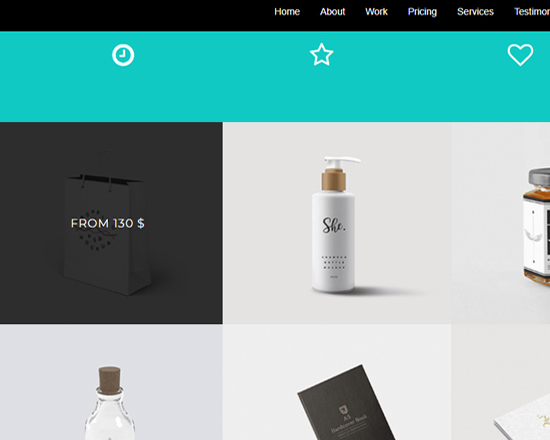
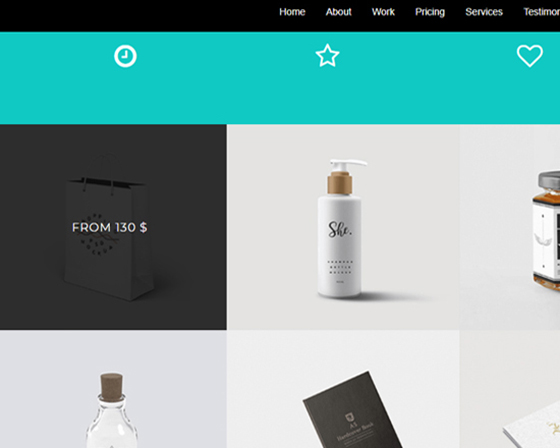
8thCommit

diff --git a/index.html b/index.html
@@ -68,34 +68,94 @@
 					<hr class="name__line">
 				</div>
 				<div class="col-xs-12 col-sm-6 col-md-6 col-lg-6 portfolio__item">
-					<a href="other/lilos/index.html" target="blank">
+					<div class="portfolio__item__box">
 						<img src="img/lilos.jpg" alt="">
-					</a>
+						<div class="portfolio__item__about">
+							<a href="other/lilos/index.html" class="item__about-link" target="blank">
+								<div class="item__about-header">
+									<span>Интернет-магазин дизайнерской мебели LILOS</span>
+								</div>
+								<div class="item__about-main">	
+									<span>Сайт создан на новой сетке Bootstrap 4.0.0, кое-где добавлено немного flex-ов. Верстка кроссбраузерная, адаптивная.</span>
+								</div>
+							</a>
+						</div>
+					</div>
 				</div>
 				<div class="col-xs-12 col-sm-6 col-md-6 col-lg-6 portfolio__item">
-					<a href="other/landing/index.html" target="blank">
+					<div class="portfolio__item__box">
 						<img src="img/landing.jpg" alt="">
-					</a>
+						<div class="portfolio__item__about">
+							<a href="other/landing/index.html" class="item__about-link" target="blank">
+								<div class="item__about-header">
+									<span>Макет Landing-page</span>
+								</div>
+								<div class="item__about-main">
+								<span>Сайт создан на сетке Bootstrap 3.3.7. Фоном первого экрана является видео, чтобы отвлечь посетителя от загрузки контента добавлен прелоадер(loader) на чистом CSS, также использована анимация при прокрутке. Верстка кроссбраузерная, адаптивная.</span>	
+								</div>
+							</a>
+						</div>
+					</div>
 				</div>
 				<div class="col-xs-12 col-sm-6 col-md-6 col-lg-6 portfolio__item">
-					<a href="other/lucid/index.html" target="blank">
+					<div class="portfolio__item__box">
 						<img src="img/lucid.jpg" alt="">
-					</a>
+						<div class="portfolio__item__about">
+							<a href="other/lucid/index.html" class="item__about-link" target="blank">
+								<div class="item__about-header">
+									<span>Макет Landing-page Lucid</span>
+								</div>
+								<div class="item__about-main">
+									<span>Сайт создан на flexbox. Верстка кроссбраузерная, адаптивная, Pixel Perfect.</span>	
+								</div>
+							</a>
+						</div>
+					</div>
 				</div>
 				<div class="col-xs-12 col-sm-6 col-md-6 col-lg-6 portfolio__item">
-					<a href="other/priroll/index.html" target="blank">
+					<div class="portfolio__item__box">
 						<img src="img/priroll.jpg" alt="">
-					</a>
+						<div class="portfolio__item__about">
+							<a href="other/priroll/index.html" class="item__about-link" target="blank">
+								<div class="item__about-header">
+									<span>Макет Landing-page Priroll</span>
+								</div>
+								<div class="item__about-main">
+									<span>Сайт создан на сетке Bootstrap 3.3.7. Интересный hover-эффект при наведении на картинки в разделе портфолио. Верстка кроссбраузерная, адаптивная.</span>	
+								</div>
+							</a>
+						</div>
+					</div>
 				</div>
 				<div class="col-xs-12 col-sm-6 col-md-6 col-lg-6 portfolio__item">
-					<a href="other/smart/index.html" target="blank">
+					<div class="portfolio__item__box">
 						<img src="img/smart.jpg" alt="">
-					</a>
+						<div class="portfolio__item__about">
+							<a href="other/smart/index.html" class="item__about-link" target="blank">
+								<div class="item__about-header">
+									<span>Макет Landing-page Smart</span>
+								</div>
+								<div class="item__about-main">
+									<span>Сайт создан на сетке Bootstrap 3.3.7. Выезжающее справа меню. Верстка кроссбраузерная, адаптивная.</span>	
+								</div>
+							</a>
+						</div>
+					</div>
 				</div>
 				<div class="col-xs-12 col-sm-6 col-md-6 col-lg-6 portfolio__item">
-					<a href="other/crowdme/index.html" target="blank">
-					<img src="img/crowdme.jpg" alt="">
-					</a>
+					<div class="portfolio__item__box">
+						<img src="img/crowdme.jpg" alt="">
+						<div class="portfolio__item__about">
+							<a href="other/crowdme/index.html" class="item__about-link" target="blank">
+								<div class="item__about-header">
+									<span>Макет Landing-page CrowdMe</span>
+								</div>
+								<div class="item__about-main">
+									<span>Сайт создан на сетке Bootstrap 3.3.7. Интересный hover-эффект при наведении на картинки в разделе портфолио. Верстка кроссбраузерная, адаптивная.</span>	
+								</div>
+							</a>
+						</div>
+					</div>
 				</div>
 			</div>
 		</section>

diff --git a/css/style.css b/css/style.css
@@ -35,11 +35,13 @@ h2{font-size:40px;letter-spacing:1px;}
 .navigation{background:#000;line-height:4;letter-spacing:1px;position:fixed;top:0px;width:100%;z-index:2;}
 .navigation .navbar-toggle{padding:24px 10px;}
 .navigation .icon-bar{background:#fff;}
+
 .logo__link{color:#fff;font-size:20px;}
 .logo__lik-icon{font-size:25px;}
 .logo__link:hover,
 .logo__link:visited{color:#fff;}
 .logo__link:hover .logo__link-icon{color:#e57c1c;}
+
 .navigation__list{-webkit-transform:translate(0);-ms-transform:translate(0);transform:translate(0);}
 .navigation .navigation__list-link{line-height:3.5;font-size:15px;color:#fff;overflow:hidden;}
 .navigation__list-link::before{content:'';position:absolute;top:calc(50% - 2px);left:-100%;width:100%;background:#e57c1c;}
@@ -54,6 +56,7 @@ h2{font-size:40px;letter-spacing:1px;}
 }
 .navigation .navigation__list-link:focus{background:#e57c1c;}
 .navigation .navigation__list-link:hover{background:none;}
+
 .cv{color:#fff;margin-top:230px;}
 .cv__btn{-webkit-transform:translate(0);-ms-transform:translate(0);transform:translate(0);background:transparent;padding:15px 50px;color:#e57c1c;margin-top:25px;border:1px solid rgba(229,124,28,0.25);-webkit-box-shadow:0 14px 28px rgba(0,0,0,0.25), 0 10px 10px rgba(0,0,0,0.22);box-shadow:0 14px 28px rgba(0,0,0,0.25), 0 10px 10px rgba(0,0,0,0.22);}
 .cv__btn:focus{background:#e57c1c;}
@@ -61,14 +64,23 @@ h2{font-size:40px;letter-spacing:1px;}
 .cv__btn:focus>.cv__btn-icon{color:#fff;-webkit-transition:0.6s;-o-transition:0.6s;transition:0.6s;}
 .cv__btn::before{content:'';position:absolute;top:calc(50% - 2px);left:-100%;width:100%;background:#e57c1c;}
 .cv__btn:hover::before{-webkit-animation:navigation-anim .8s ease-out forwards;animation:navigation-anim .8s ease-out forwards;}
+
 .portfolio{color:#000;}
-.portfolio__item{margin-bottom:30px;}
-.portfolio__item img{width:100%;}
+.portfolio__item{margin: 15px 0;}
+.portfolio__item__box{position:relative}
+.portfolio__item__box img{width:100%;height:auto;position:relative}
+.portfolio__item__box:hover .portfolio__item__about, .portfolio__item__box:focus .portfolio__item__about, .portfolio__item__box:active .portfolio__item__about{opacity:1;}
+.portfolio__item__about{ transition:all 0.25s linear;opacity: 0; position: absolute;display: flex;align-content: center;background: rgba(0,0,0,0.95);height: 100%; width: 100%; top:0; bottom: 0; right: 0; left: 0; margin: auto; padding: 0 35px;}
+.item__about-link{width: 100%;height: 100%; display: flex; flex-direction: column; justify-content: center;}
+.item__about-header{color: #e57c1c; font-size: 22px; text-align: center; margin-bottom: 30px;}
+.item__about-main{color: #fff; font-size: 16px;padding:0 40px;text-align: justify;}
+
 .about-me{background:url(../img/cv__bg.jpg) no-repeat center top fixed;-ms-background-size:cover;background-size:cover;min-height:530px;color:#fff;font-size:15px;}
-.about-me__education{border-right:1px solid #fff;padding:0 30px;}
+.about-me__education{border-right:1px solid #fff;padding:0 35px;}
 .about-me__skills{padding:0 30px;}
 .about-me__header{margin-bottom:30px;}
 .about-me__icon{color:#e57c1c;padding-right:15px;}
+
 .text-hilight{background:#e57c1c;padding:0 5px;margin-right:5px;}
 .find-me{color:#000;}
 .find-me-icon{color:#000;font-size:40px;display:block;padding-bottom:25px;}
@@ -77,13 +89,24 @@ h2{font-size:40px;letter-spacing:1px;}
 .find-me-link:focus,
 .find-me-link:hover .find-me-icon,
 .find-me-link:focus .find-me-icon{color:#e57c1c;}
+
 .footer{background:#000;padding:35px 0;color:#fff;}
 .footer-love{line-height:2;letter-spacing:1px;text-transform:uppercase;font-size:11px;}
+
+
+@media (max-width:1024px){
+.portfolio__item__about{padding: 0 15px;}
+.item__about-main{padding:0 20px}
+}
 @media (max-width:991px){.about-me__education{border-right:0;padding:0 15px;}
 .about-me__skills{padding:0 15px;}
+.item__about-header{font-size: 17px; margin-bottom: 15px;}
+.item__about-main{ font-size: 14px}
 .find-me__smm{padding-top:30px;}
 }
 @media (max-width:767px){.navigation__list-item{padding-right:30px;}
 h1{font-size:38px;}
 h2{font-size:30px;}
+.item__about-header{font-size: 16px; margin-bottom: 10px;}
+.item__about-main{ font-size: 12px}
 }

diff --git a/other/priroll/index.html b/other/priroll/index.html
@@ -9,7 +9,6 @@
 	<link rel="stylesheet" type="text/css" href="css/style.css">
 	<link href="https://fonts.googleapis.com/css?family=Montserrat|Nunito+Sans" rel="stylesheet">
 	<link rel="stylesheet" href="https://cdnjs.cloudflare.com/ajax/libs/font-awesome/4.7.0/css/font-awesome.min.css" />
-	<link rel="stylesheet" type="text/css" href="css/animate.css">
 	<link rel="stylesheet" type="text/css" href="css/slick.css">
 	<link rel="stylesheet" type="text/css" href="css/slick-theme.css">
 </head>
